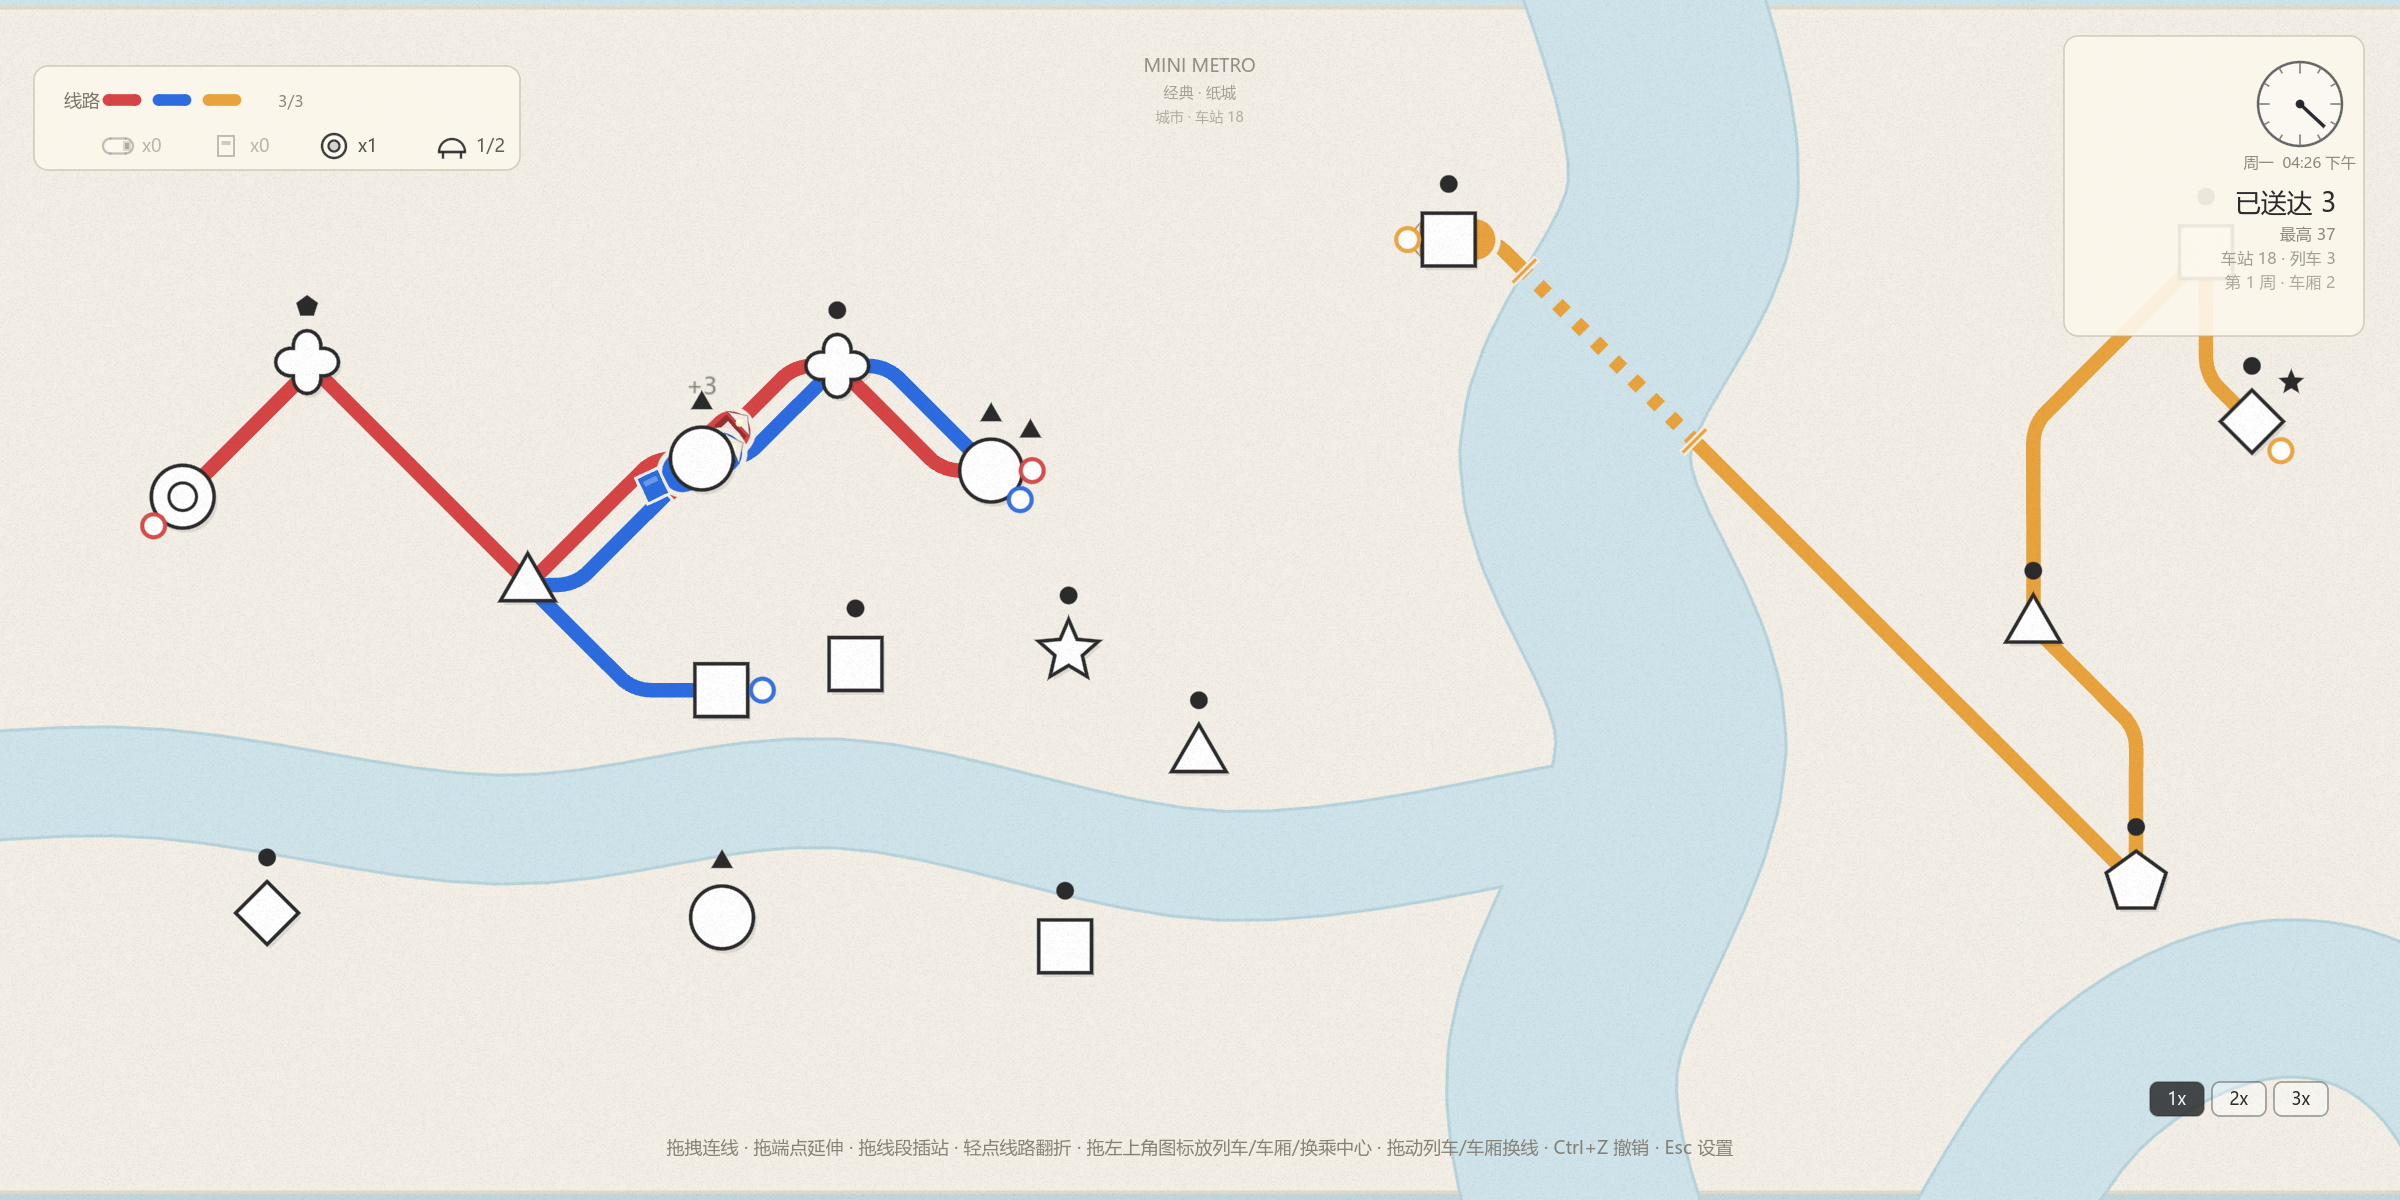
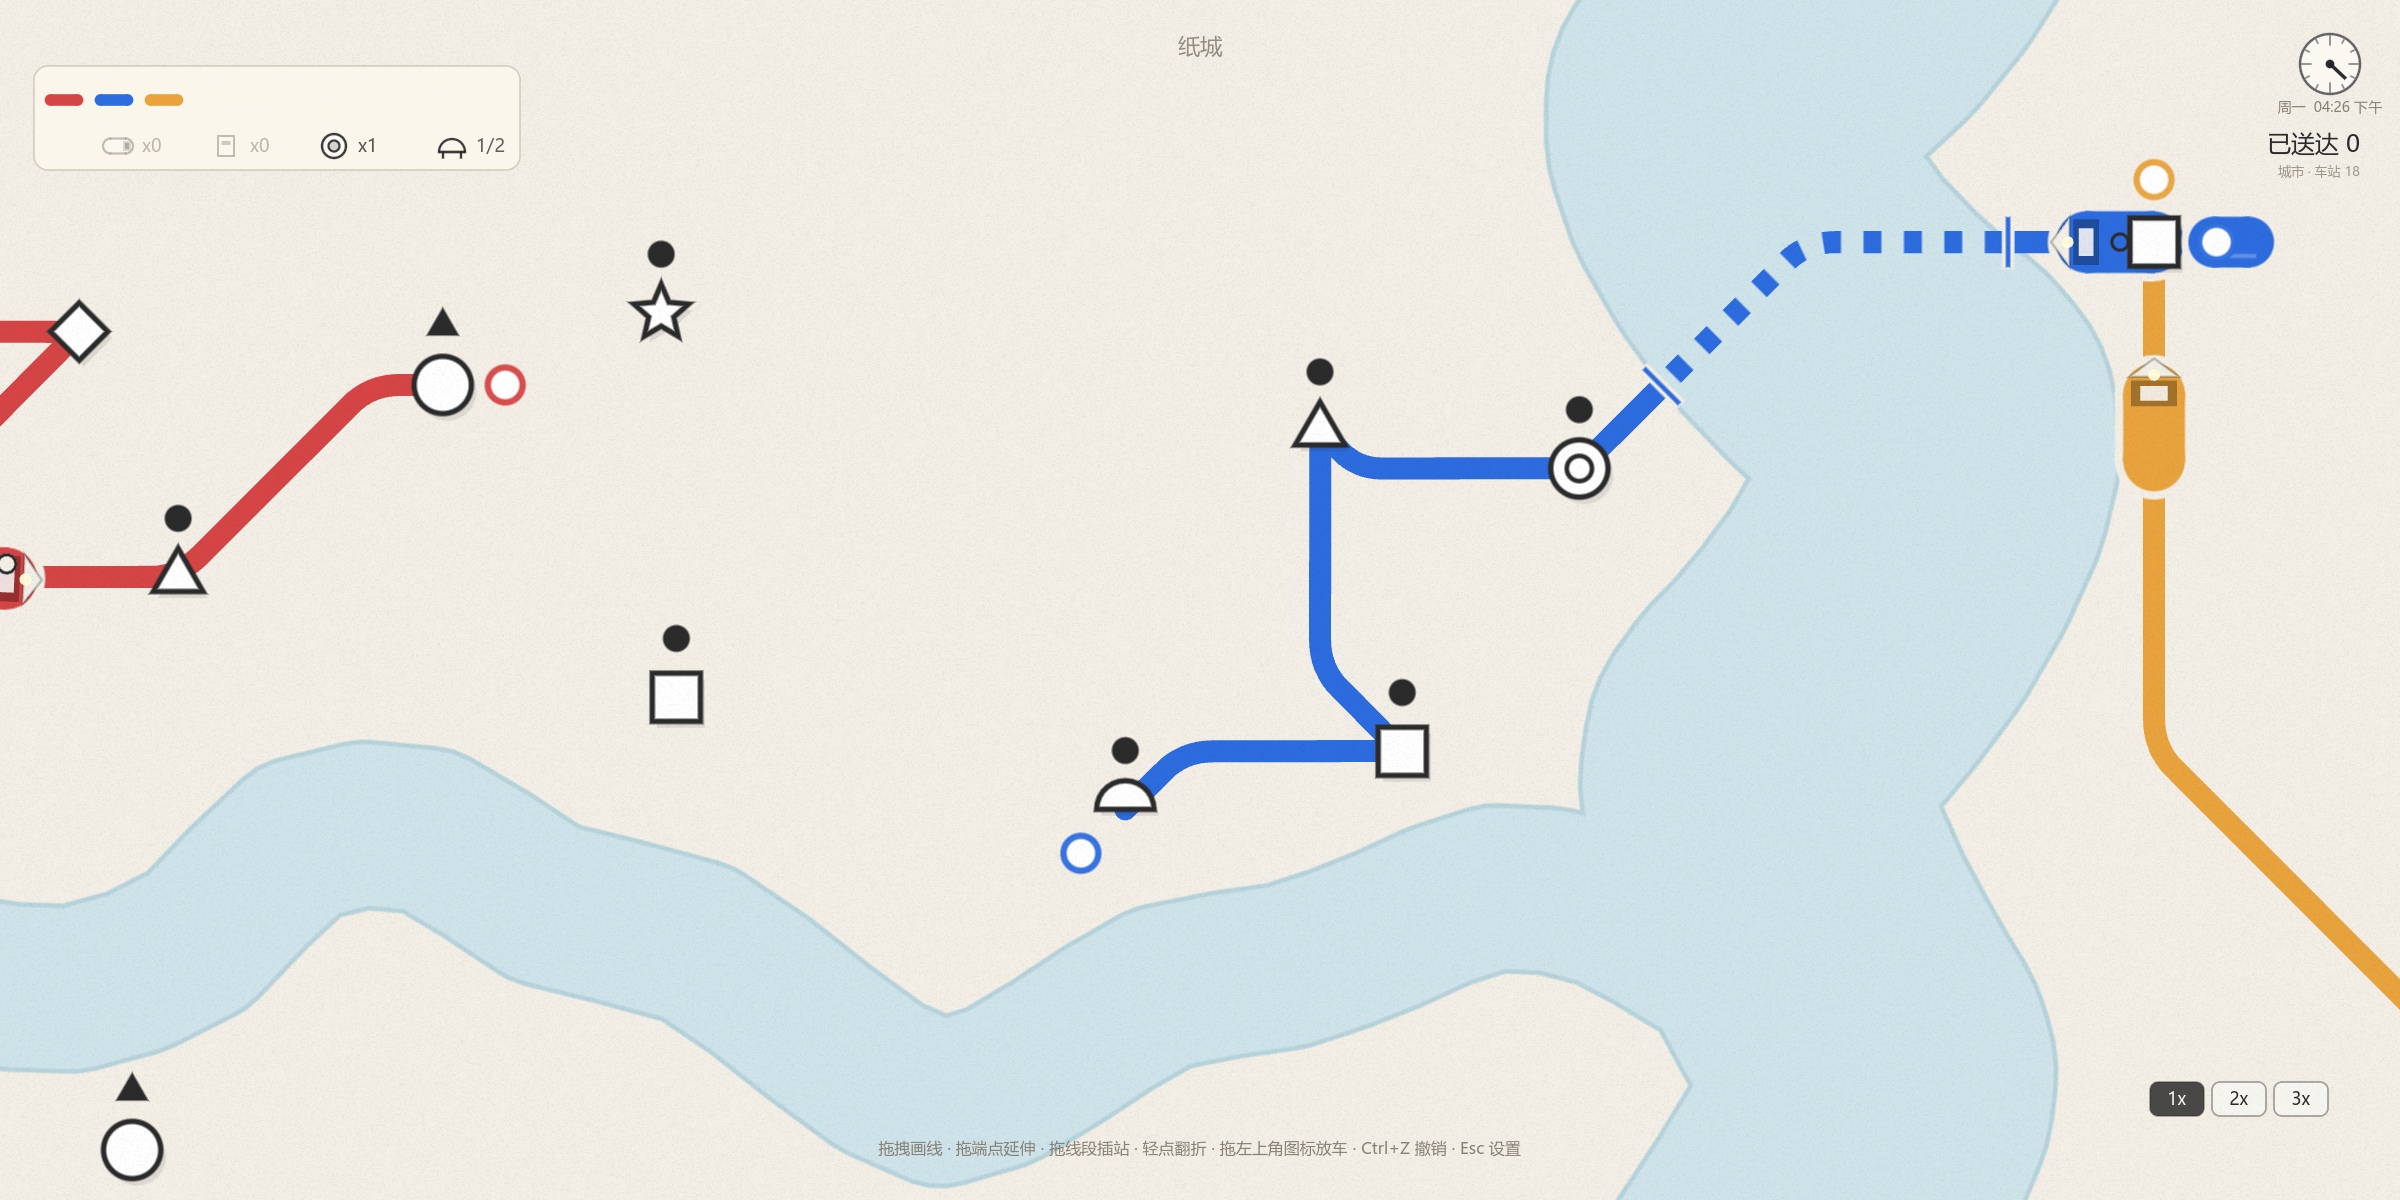
Fix curve slowdown direction, capsule carriages with riders, map name
- Curve factors now go the right way: direction change 45/90/135/180 gets
  speed factors 0.9/0.7/0.5/0.3, so gentle 45-degree bends are fastest and
  180-degree U-turns are slowest (previously 45 was slowest and 180 fell back
  into the 45 bucket). Tests cover all four tiers.
- Carriages are now the same rounded capsule style as the train (paper outline
  + line-colour body) with no cab, larger body 46x27, spaced behind the train.
  Riders beyond the train's 6 seats are drawn inside each carriage (up to six
  per carriage), and the redraw signature includes all riders. Carriage drag
  hit boxes/preview updated to the new body.
- HUD shows the current map name at top centre (e.g. 纸城 / London), set from
  Game.city when a session starts.
- tests: 681 checks; refreshed m2-carriage screenshot only; no export.

diff --git a/docs/设计方案.md b/docs/设计方案.md
@@ -14,14 +14,14 @@
 > 程序化音效与氛围音乐、送达飘字与超载扩散环、三种模式（经典/无尽/每日挑战）、
 > **城市地图按真实城市 WGS84 经纬度投影（河道并集渲染，重叠处无接缝）**、
 > **12 小时昼夜时针（含星期）+ 地图夜色滤镜**、**列车/车厢/换乘中心改为库存资源（图标拖放到地图）**、
-> **列车运动学（加减速不突变、弯道限速、0.5s/人逐个上下、无人上下车直接驶过）**、
+> **列车运动学（加减速不突变、弯道 45/90/135/180 四档限速、0.5s/人逐个上下、无人上下车直接驶过）**、
 > **近线未接入站台的线路标记（30px，两条沿线路走向的白色长线）**、**拖线段移站/1 秒再接冷却**、
 > **手动改线后只对差异段做浅色旧线收尾（含弯曲方向变化）**、**拖车换线先下客再移动（目标位置浅色车）**、
 > **地标车站（12 类：居民区/车站/商务区/医院/度假区/景点/市政厅/大学/体育场/公园/博物馆/花园）+ 分时段乘客出行规律**、
 > **城镇五阶段发展（开局固定 3 站，形状逐步解锁、相机 2.0→1.0）**、**2400×1200 窗口/大地图与更多水系**、
 > 列车放大 1.5 倍并绘制车头、可点击倍速、
 > **初始 3 条 / 上限 7 条线路**、**闭合环线（列车单向循环、接缝处首末手柄分开）**、
-> 存档与设置、中英双语、Windows 导出。headless 测试 680 checks 全通过，截图见 `docs/images/`。
+> 存档与设置、中英双语、Windows 导出。headless 测试 681 checks 全通过，截图见 `docs/images/`。
 > 运行/测试/导出说明见 [README](../README.md)。
 
 ---
